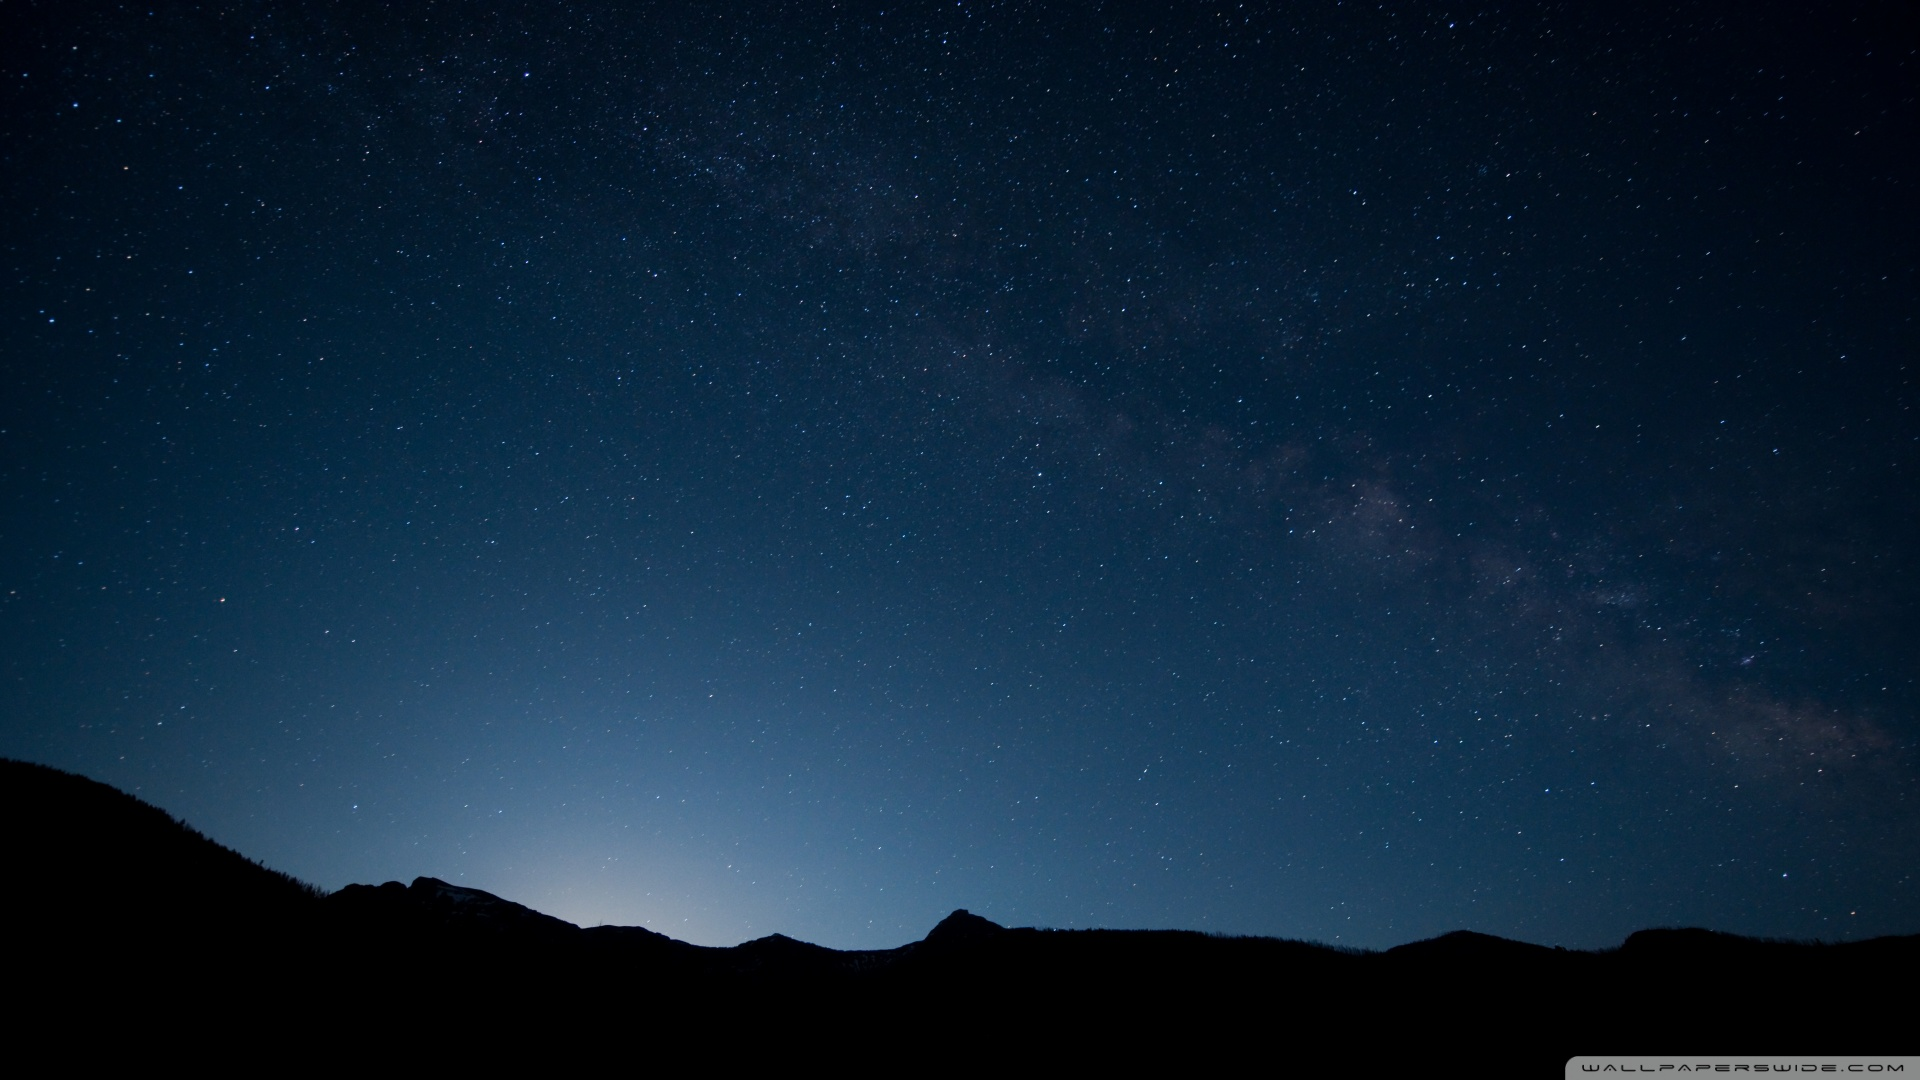
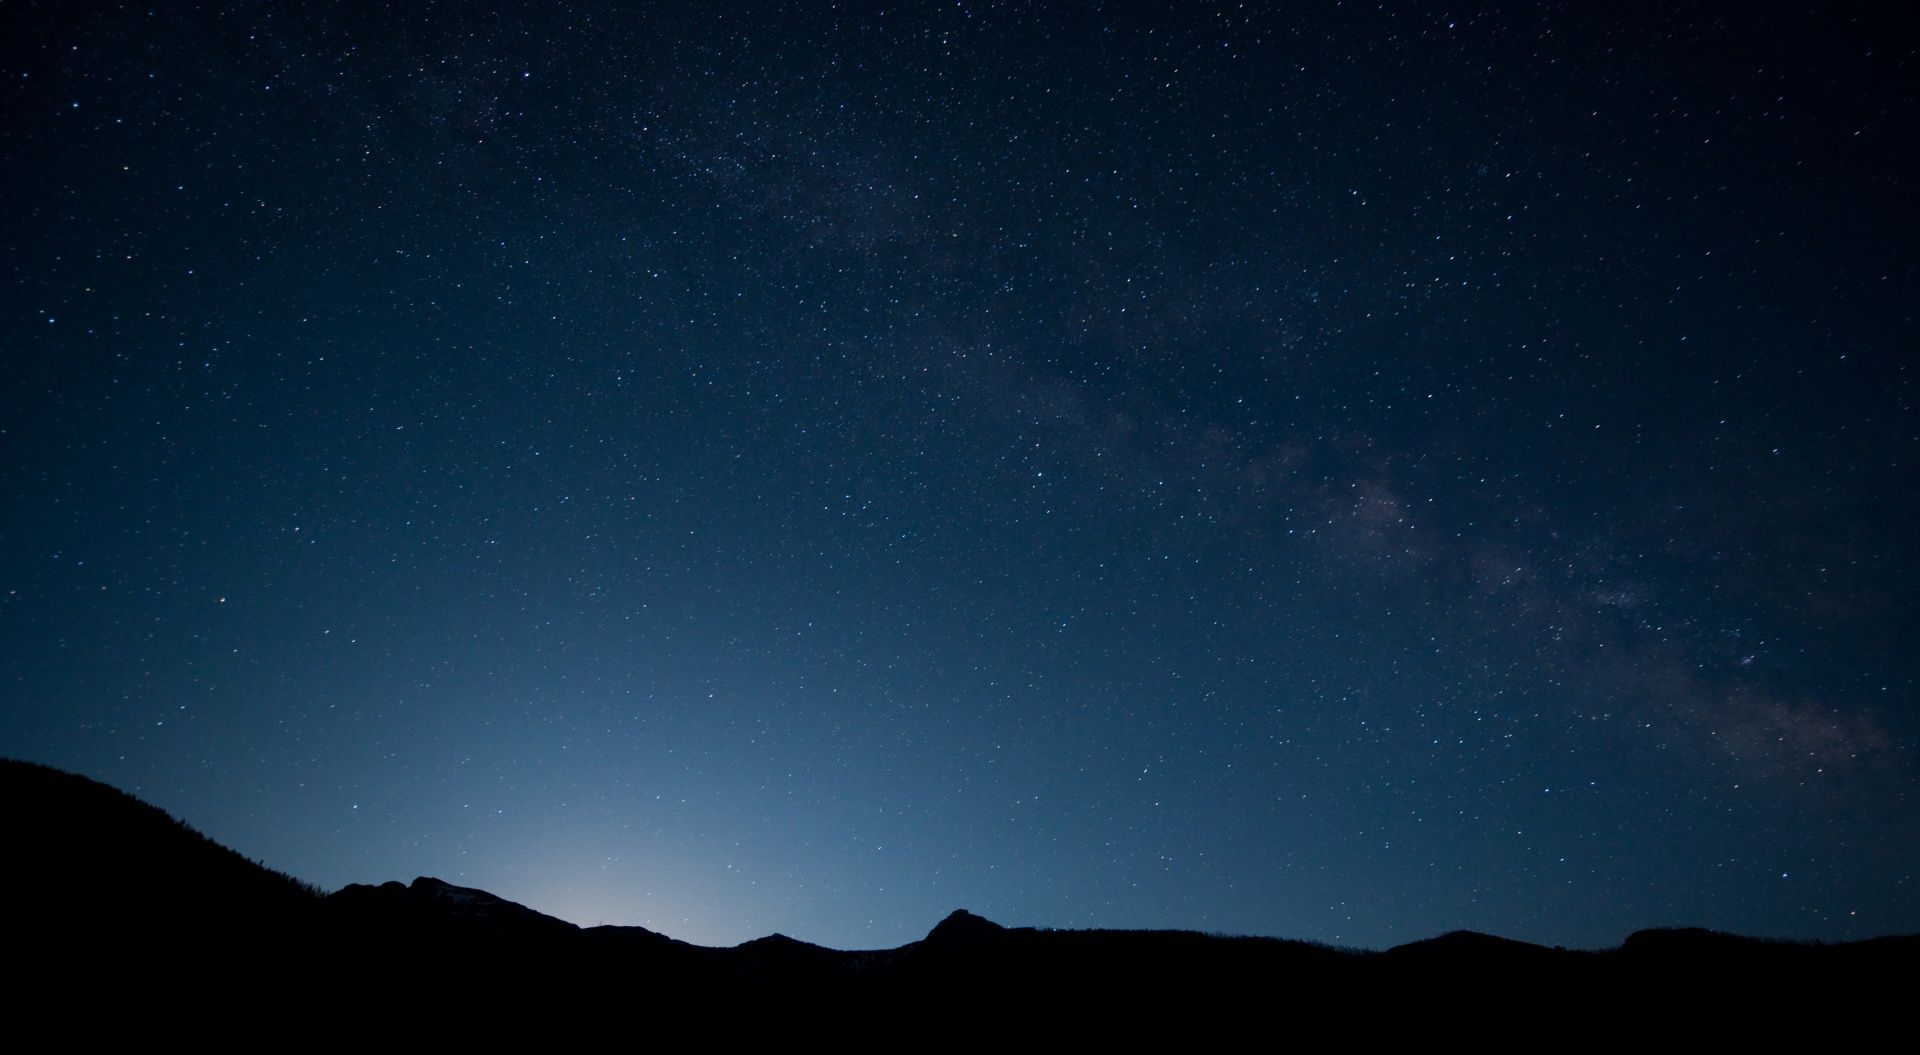
Imges for works added; bg-img edited; some fixes in css(works).

Changed region(s): [[0.0, 0.6976, 1.0, 0.91], [0.8125, 0.9706, 1.0, 1.0]]

diff --git a/index.html b/index.html
@@ -142,11 +142,11 @@
       </div>
       <div class="my-works__work my-works__work_4">
         <div class="my-works__work-overlay">
-          <h3 class="my-works__work-title">TEST</h3>
-          <p class="my-works__work-description">Lorem ipsum dolor sit amet.</p>
+          <h3 class="my-works__work-title">Htmlacademy.ru-Technomart</h3>
+          <p class="my-works__work-description">*.psd от htmalacademy.ru.</p>
         </div>
         <a class="my-works__work-link" title="" href="#">
-          <img class="my-works__work-img" width="" height="" alt="">
+          <img class="my-works__work-img" src="img/works-technomart-index.jpg" width="350" height="400" alt="Htmlacademy.ru-Technomart">
         </a>
       </div>
     </div>

diff --git a/css/style.css b/css/style.css
@@ -234,15 +234,23 @@ audio {
   display: flex;
   justify-content: space-between;
   align-items: flex-start;
-  width: 960px;
+  flex-wrap: wrap;
   padding: 20px;
   background-color: #fff;
+  border-radius: 10px;
 }
 
 .my-works__work {
-  width: 200px;
-  height: 200px;
+  width: 350px;
+  height: 400px;
+  margin-bottom: 20px;
   background-color: grey;
+  border: 5px solid grey;
+  border-radius: 10px;
+}
+
+.my-works__work-overlay {
+  display: none;
 }
 
 /* FOOTER */
